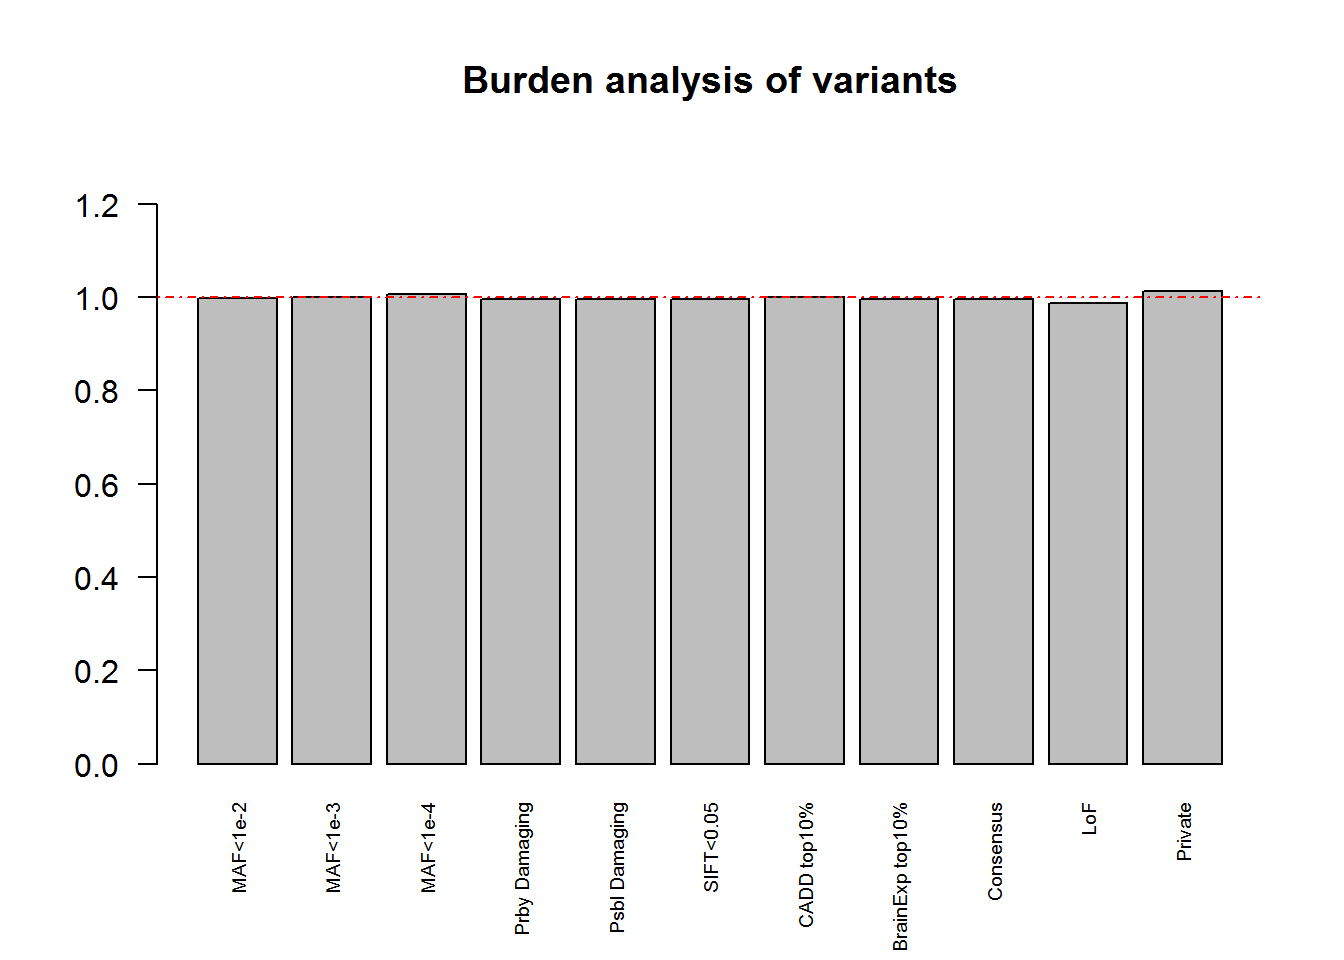
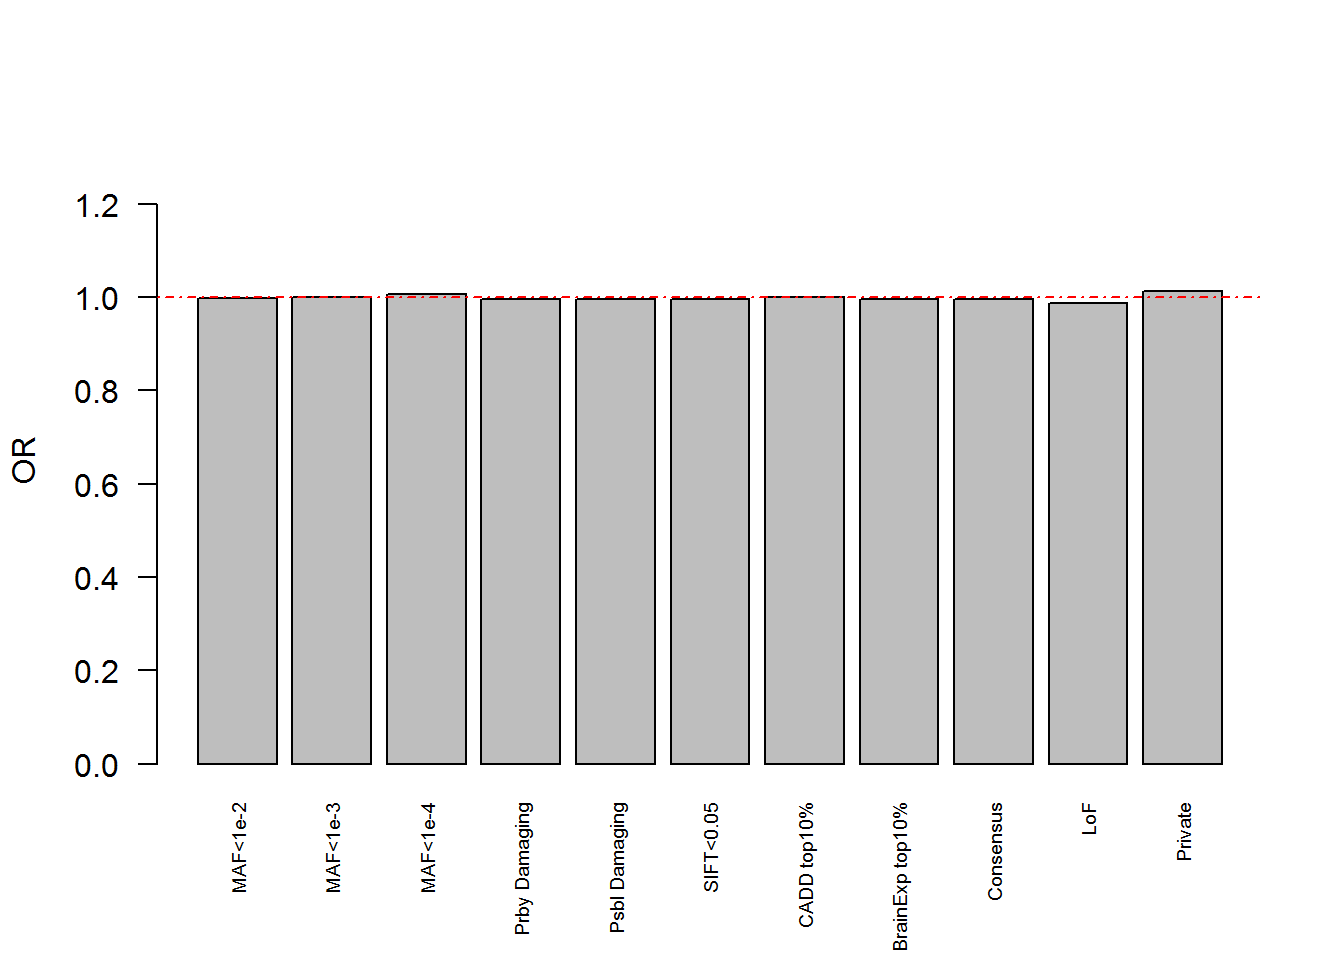
Dec142017

Changed region(s): [[0.3438, 0.0625, 0.7188, 0.125], [0.0, 0.4375, 0.0312, 0.5]]

diff --git a/docs/ASD.html b/docs/ASD.html
@@ -314,10 +314,10 @@ div.tocify {
 shared across the workflowr files. -->
 <!-- Update knitr chunk options -->
 <!-- Insert the date the file was last updated -->
-<p><strong>Last updated:</strong> 2017-12-13</p>
+<p><strong>Last updated:</strong> 2017-12-14</p>
 <!-- Insert the code version (Git commit SHA1) if Git repository exists and R
  package git2r is installed -->
-<p><strong>Code version:</strong> 1ccc55f</p>
+<p><strong>Code version:</strong> 4d16f47</p>
 <!-- Add your analysis here -->
 <div id="quality-control-qc" class="section level2">
 <h2>Quality Control (QC)</h2>
@@ -645,7 +645,7 @@ var.data=data.frame(ID=Anno.Data$ID, No.case=Anno.Data$No.case, No.contr=Anno.Da
 </tr>
 </tbody>
 </table>
-<pre class="r"><code>barplot(summy[,1], ylim=c(0, 1.3), las=2, cex.names=0.6, main=&quot;Burden analysis of variants&quot;)
+<pre class="r"><code>barplot(summy[,1], ylim=c(0, 1.3), ylab=&quot;OR&quot;, las=2, cex.names=0.6, main=&quot;&quot;)
 abline(h=1, col=&quot;red&quot;, lty=4)</code></pre>
 <p><img src="figure/ASD.Rmd/unnamed-chunk-3-1.png" width="672" style="display: block; margin: auto;" /></p>
 <p>Test: use two sample one side poisson test (“greater”)</p>
@@ -8849,6 +8849,7 @@ Consensus constraint gene
 </tbody>
 </table>
 </div>
+<p><img src="figure/ASD.Rmd/unnamed-chunk-6-1.png" width="672" style="display: block; margin: auto;" /></p>
 </div>
 <div id="session-information" class="section level2">
 <h2>Session information</h2>
